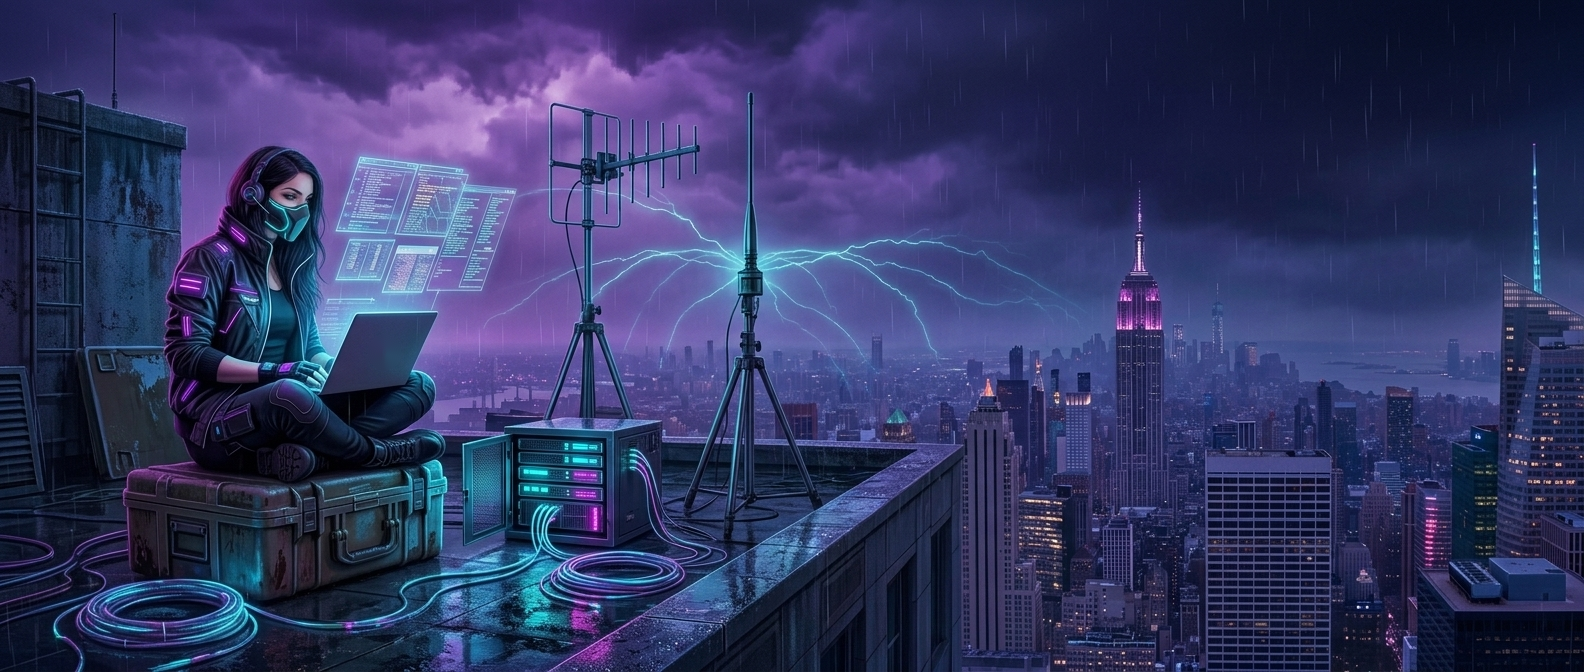
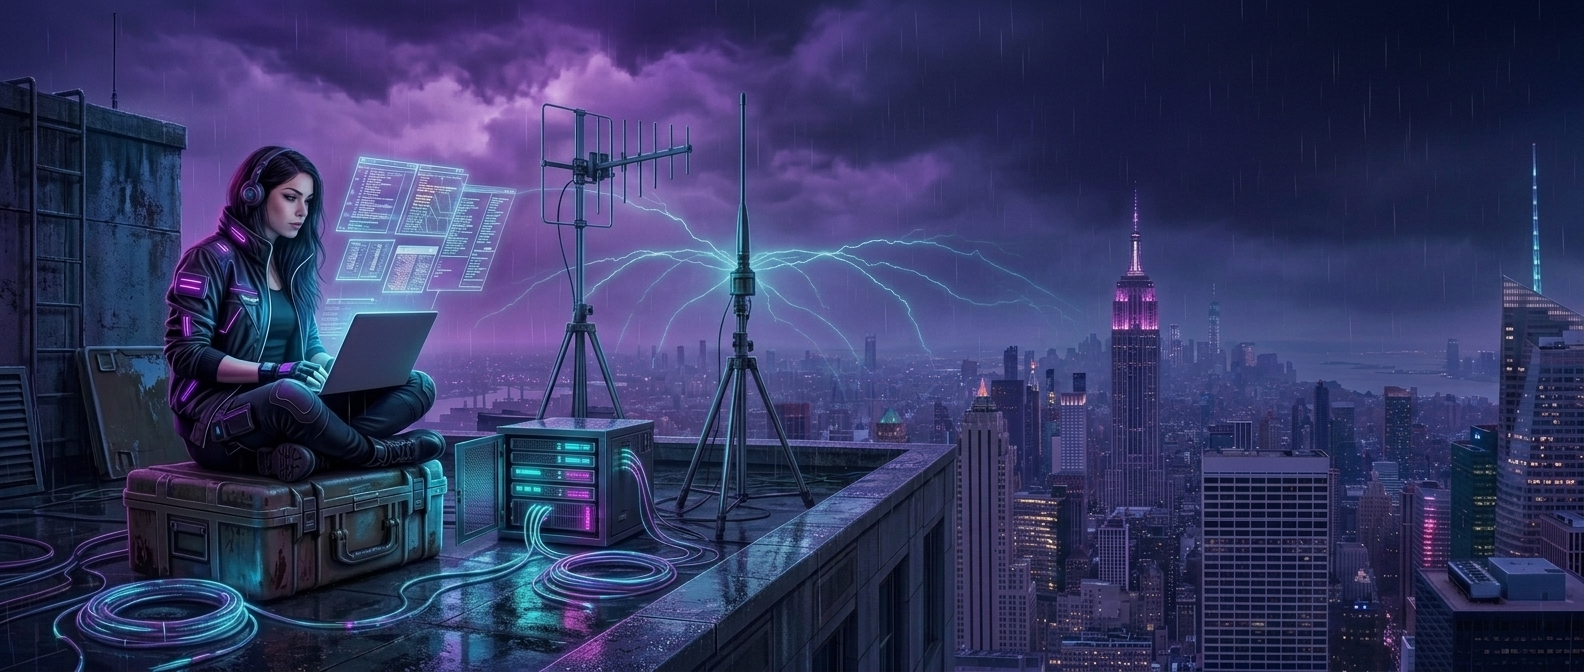
updates

diff --git a/aerolab.html b/aerolab.html
@@ -14,12 +14,56 @@ permalink: /aerolab/
     min-height: 100vh;
 }
 
+.al-banner-wrap {
+    position: relative;
+    width: 100%;
+    margin-bottom: 2.5rem;
+}
+
 .al-banner {
     width: 100%;
     display: block;
     border: 1px solid rgba(0, 217, 255, 0.2);
     border-radius: 8px;
-    margin-bottom: 2.5rem;
+}
+
+/* Wordmark laid over the empty left side of the banner art */
+.al-banner-text {
+    position: absolute;
+    top: 50%;
+    left: 5%;
+    transform: translateY(-50%);
+    text-align: left;
+    pointer-events: none;
+}
+
+.al-banner-title {
+    font-family: var(--font-display);
+    font-weight: 900;
+    font-size: clamp(1.1rem, 4.4vw, 3.4rem);
+    letter-spacing: 0.1em;
+    line-height: 1;
+    color: #f2f6ff;
+    margin: 0;
+    white-space: nowrap;
+    text-shadow:
+        0 0 8px rgba(0, 217, 255, 0.9),
+        0 0 26px rgba(0, 217, 255, 0.5),
+        0 0 52px rgba(168, 85, 247, 0.35),
+        0 2px 10px rgba(0, 0, 0, 0.85);
+}
+
+.al-banner-title .slash { color: var(--cyber-pink); }
+
+.al-banner-tag {
+    font-family: var(--font-mono);
+    font-size: clamp(0.4rem, 1.32vw, 1rem);
+    letter-spacing: 0.24em;
+    text-transform: uppercase;
+    color: var(--cyber-blue);
+    margin: 0.75em 0 0 0;
+    white-space: nowrap;
+    text-shadow: 0 0 12px rgba(0, 217, 255, 0.6), 0 2px 8px rgba(0, 0, 0, 0.9);
 }
 
 .al-intro p {
@@ -29,12 +73,6 @@ permalink: /aerolab/
     margin-bottom: 1rem;
 }
 
-.al-sub {
-    color: var(--cyber-purple);
-    font-style: italic;
-    font-size: 1.6rem;
-    margin-bottom: 1.5rem;
-}
 
 .al-strip {
     margin-top: 2rem;
@@ -263,7 +301,8 @@ permalink: /aerolab/
 @media (max-width: 768px) {
     .al-grid { grid-template-columns: 1fr; }
     .al-tactic-title { font-size: 1.1rem; }
-    .al-sub { font-size: 1.2rem; }
+    .al-banner-title { letter-spacing: 0.06em; }
+    .al-banner-tag { letter-spacing: 0.16em; }
 }
 </style>
 
@@ -279,14 +318,15 @@ permalink: /aerolab/
 <section class="al-page">
     <div class="container">
 
-        <img src="/assets/images/aerolab-banner.png" alt="AeroLab, an isometric wireframe of the lab rack" class="al-banner">
+        <div class="al-banner-wrap">
+            <img src="/assets/images/aerolab-banner.png" alt="AeroLab, an isometric wireframe of the lab rack" class="al-banner">
+            <div class="al-banner-text">
+                <h1 class="al-banner-title"><span class="slash">//</span> AEROLAB</h1>
+                <p class="al-banner-tag">Attack Simulation and Detection</p>
+            </div>
+        </div>
 
         <div class="al-intro" style="margin-bottom: 1rem;">
-            <h1 class="page-title" style="justify-content: flex-start; text-align: left;">
-                <span class="section-number">//</span>
-                <span>AeroLab</span>
-            </h1>
-            <p class="al-sub">Attack Simulation and Detection</p>
             <p>AeroLab is my home lab. Each writeup below runs a single MITRE ATT&amp;CK technique against a live host, then works out how to catch it. Baseline the target, execute, detect it several different ways, compare what the endpoint tool sees against what the log pipeline recorded, write a rule, and return the host to its starting state.</p>
             <p>The interesting part is usually where a detection method fails rather than where it works. Every writeup documents the gaps and the false positives alongside the results, because a rule you cannot tune is a rule nobody will keep running.</p>
             <p>Hardware and network design are covered in the <a href="/writeups/aerolab-v2/" class="inline-link">AeroLab v2 build writeup</a>. Two Lenovo M920q nodes running Proxmox, a UniFi switch, segmented networks, and a full detection stack.</p>
